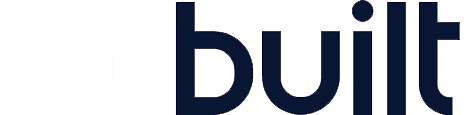
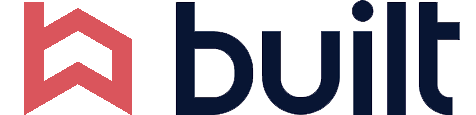
rehashed style, overhaul, cleanup

Changed region(s): [[0.0294, 0.0, 0.2941, 1.0]]

diff --git a/src/layouts/Layout.vue b/src/layouts/Layout.vue
@@ -3,7 +3,8 @@
     <!-- Header Element -->
     <q-header
     elevated>
-      <q-toolbar>
+      <q-toolbar
+      class="bg-white">
         <a href="/">
         <img class="built-logo" src="~assets/built.png"/></a>
         <q-toolbar-title class="q-mt-sm q-mr-sm">
@@ -14,16 +15,17 @@
     <q-btn
     dense
     color="black"
-    round
+    flat
     size="15px"
     icon="email"
     class="q-mr-md"
     to="/messages">
-      <q-badge color="green" floating>{{ messageCount}}</q-badge>
+      <q-badge color="primary" floating>{{ messageCount}}</q-badge>
     </q-btn>
   </div>
   <div>
     <q-btn
+    color="black"
     dense
     flat
     size="15px"
@@ -35,7 +37,9 @@
       </q-toolbar>
     </q-header>
 <!-- Footer Element -->
-     <q-footer>
+     <q-footer
+     elevated
+     class="bg-white text-black">
         <q-tabs>
         <q-route-tab
         v-for="nav in navs"
@@ -135,8 +139,18 @@ export default {
     }
   }
 
+  .q-route-tab {
+    .exact-active-class {
+    color: primary !important;
+    }
+  }
+
   .built-logo {
     width: 75%;
     padding: 2%;
+  }
+
+  .navs {
+    color: $black;
   }
 </style>

diff --git a/src/components/Invoices/Invoice.vue b/src/components/Invoices/Invoice.vue
@@ -89,14 +89,16 @@ export default {
     },
     promptToDelete(id) {
       this.$q.dialog({
-        title: 'Confirm Delete',
-        message: 'Delete this invoice?',
+        title: '<div class="bg-grey-4 rounded-borders q-pa-sm"><div><div><span class="text-dark q-pa-xs"><strong>CONFIRM DELETE</strong></span></div></div>',
+        message: 'Delete this Payment Reminder?',
+        html: true,
         ok: {
           push: true,
           color: 'blue',
         },
         cancel: {
-          color: 'negative',
+          color: 'grey-4',
+          textColor: 'dark',
         },
         persistent: true,
       }).onOk(() => {
@@ -132,5 +134,4 @@ export default {
 </script>
 
 <style lang="scss">
-
 </style>

diff --git a/src/components/Loans/LoanRequest.vue b/src/components/Loans/LoanRequest.vue
@@ -5,6 +5,7 @@
   leave-active-class="animated zoomOut delay-1s">
   <div class="q-pa-md" style="full-width">
 <div class="form-div q-pa-md q-ma-sm q-mt-xs">
+  <modal-loan-header>Request A Loan</modal-loan-header>
     <q-form
       @submit="onSubmit"
       @reset="onReset"
@@ -85,7 +86,10 @@
 </template>
 
 <script>
+import mixinAddEditInvoice from 'src/mixins/mixin-add-edit-invoice';
+
 export default {
+  mixins: [mixinAddEditInvoice],
   data() {
     return {
       name: '',
@@ -134,7 +138,7 @@ export default {
   .form-div {
     margin: auto;
     width: 75%;
-    border: 1px solid $primary;
+    border: 1px solid $black;
     border-radius: 5px;
   }
 </style>

diff --git a/src/components/Messages/Message.vue b/src/components/Messages/Message.vue
@@ -60,14 +60,16 @@ export default {
     ...mapActions('messages', ['deleteMessage']),
     promptToDelete(id) {
       this.$q.dialog({
-        title: 'Confirm Delete',
+        title: '<div class="bg-grey-4 rounded-borders q-pa-sm"><div><span class="text-dark q-pa-xs"><strong>CONFIRM DELETE</strong></span></div></div>',
         message: 'Delete this Message?',
+        html: true,
         ok: {
           push: true,
           color: 'blue',
         },
         cancel: {
-          color: 'negative',
+          color: 'grey-4',
+          textColor: 'dark',
         },
         persistent: true,
       }).onOk(() => {

diff --git a/src/mixins/mixin-add-edit-invoice.js b/src/mixins/mixin-add-edit-invoice.js
@@ -9,6 +9,7 @@ export default {
   },
   components: {
     'modal-header': () => import('components/Invoices/Modals/Shared/ModalHeader.vue'),
+    'modal-loan-header': () => import('components/Loans/Modals/Shared/ModalLoanHeader.vue'),
     'modal-invoice-name': () => import('components/Invoices/Modals/Shared/ModalInvoiceName.vue'),
     'modal-due-date': () => import('components/Invoices/Modals/Shared/ModalDueDate.vue'),
     'modal-invoice-total': () => import('components/Invoices/Modals/Shared/ModalInvoiceTotal.vue'),

diff --git a/src/pages/PageSettings.vue b/src/pages/PageSettings.vue
@@ -6,7 +6,7 @@
         class="q-mb-md"
         >
       <q-item-label
-      class="bg-grey-4 q-ma-sm"
+      class="bg-grey-4 q-ma-sm rounded-borders text-dark"
       header>Settings</q-item-label>
 
       <q-item tag="label" v-ripple>
@@ -34,7 +34,7 @@
 <q-list bordered padding>
 
       <q-item-label
-      class="bg-grey-4 q-ma-sm"
+      class="bg-grey-4 q-ma-sm rounded-borders text-dark"
       header
       >More</q-item-label>
 

diff --git a/src/components/Loans/Modals/Shared/ModalLoanHeader.vue b/src/components/Loans/Modals/Shared/ModalLoanHeader.vue
@@ -1,5 +1,5 @@
 <template>
-  <q-card-section class="row bg-grey-5 text-white rounded-borders q-ma-md">
+  <q-card-section class="row bg-grey-5 text-white rounded-borders q-mb-md">
         <div class="text-h6"><slot></slot></div>
           <q-space />
           <q-btn

diff --git a/src/components/Invoices/Modals/EditInvoice.vue b/src/components/Invoices/Modals/EditInvoice.vue
@@ -1,7 +1,7 @@
 <template>
 
   <q-card>
-      <modal-header>Edit Invoice</modal-header>
+      <modal-header>Edit {{this.invoice.name}}</modal-header>
 <!-- Beginning of Form Component -->
         <q-form @submit.prevent="submitForm">
 

diff --git a/src/components/Invoices/Modals/PayInvoice.vue b/src/components/Invoices/Modals/PayInvoice.vue
@@ -1,7 +1,7 @@
 <template>
 
   <q-card>
-      <modal-header>Pay Invoice</modal-header>
+      <modal-header>{{this.invoice.name}}</modal-header>
 <!-- Beginning of Form Component -->
         <q-form @submit.prevent="submitForm">
 

diff --git a/src/components/Invoices/Modals/AddInvoice.vue b/src/components/Invoices/Modals/AddInvoice.vue
@@ -1,7 +1,7 @@
 <template>
 
   <q-card>
-      <modal-header>Add Invoice</modal-header>
+      <modal-header>Add Reminder</modal-header>
 <!-- Beginning of Form Component -->
         <q-form @submit.prevent="submitForm">
 

diff --git a/src/css/quasar.variables.scss b/src/css/quasar.variables.scss
@@ -12,7 +12,7 @@
 // to match your app's branding.
 // Tip: Use the "Theme Builder" on Quasar's documentation website.
 
-$primary   : #da555c;
+$primary   : #297dfc;
 $secondary : #858383;
 $accent    : #9C27B0;
 

diff --git a/src/components/Invoices/Modals/Shared/ModalPayButton.vue b/src/components/Invoices/Modals/Shared/ModalPayButton.vue
@@ -1,6 +1,8 @@
 <template>
     <q-card-actions align="right">
         <q-btn
+        dense
+        class="q-pl-md q-pr-md q-mr-sm"
         label="PAY"
         color="green"
         type="submit"
